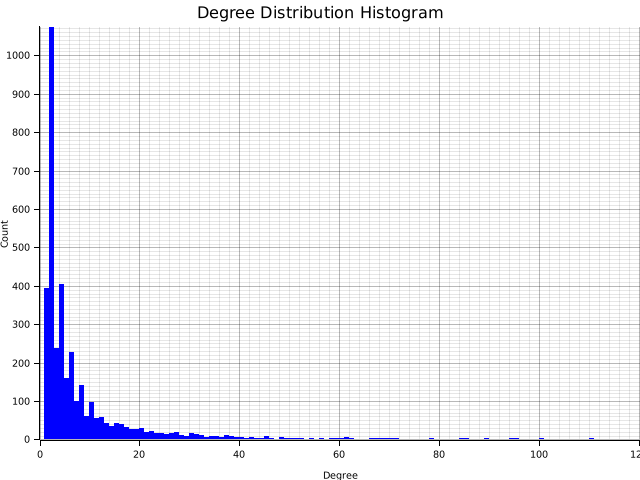
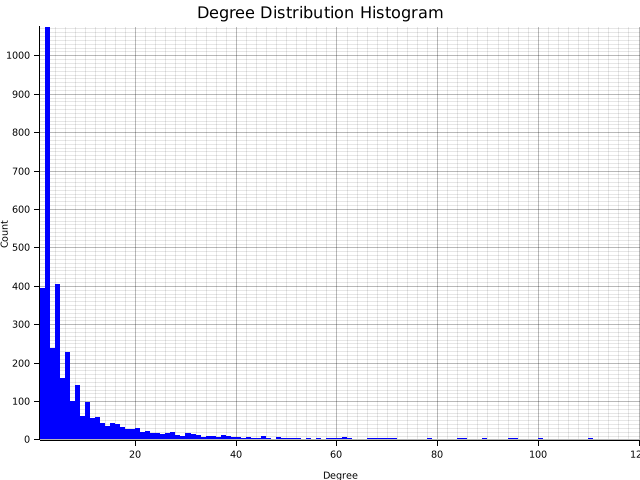
added a test code and made changes to the code

diff --git a/project/src/main.rs b/project/src/main.rs
@@ -4,16 +4,16 @@ mod analysis;
 
 use graph::Graph;
 use bfs::bfs;
-use analysis::{degree_distribution, plot_degree_distribution, trust_correlation};
+use analysis::{degree_distribution, plot_degree_distribution, trust_correlation_data, trust_correlation};
 use std::fs::File;
 use std::io::{self, BufRead};
 use rand::seq::SliceRandom;
+use std::collections::HashMap;
 
-// reads the CSV file and returns a vector of edges: source, target, weight
+// Reading the csv file and returns the vector of edges: source, target, weight
 fn read_file(file_path: &str) -> Vec<(i32, i32, i32)> {
     let file = File::open(file_path).expect("File not found");
     let reader = io::BufReader::new(file);
-
     let mut edges = Vec::new();
     for line in reader.lines() {
         let line = line.unwrap();
@@ -28,11 +28,10 @@ fn read_file(file_path: &str) -> Vec<(i32, i32, i32)> {
     edges
 }
 
-// calcluates the average shortest-path of the distance between random vertex pairs
+// Calculating the average shortest path of the distance between random vertex pairs
 fn average_distance(graph: &Graph, samples: usize) -> f64 {
     let mut rng = rand::thread_rng();
     let vertices: Vec<&i32> = graph.adjacency_list.keys().collect();
-
     if vertices.len() < 2 {
         return 0.0;
     }
@@ -50,7 +49,6 @@ fn average_distance(graph: &Graph, samples: usize) -> f64 {
             }
         }
     }
-
     if valid_pairs > 0 {
         total_distance as f64 / valid_pairs as f64
     } else {
@@ -63,15 +61,64 @@ fn main() {
     let edges = read_file(file_path);
     println!("Loaded {} edges", edges.len());
     let graph = Graph::new(&edges);
-
-    // computes the average distance between vertices
+    // Computing the average distance between vertices
     let avg_distance = average_distance(&graph, 10); // reduced sample size for simplicity
     println!("Average distance between two random vertices: {:.2}", avg_distance);
-
-    // computes the degree distribution
+    // Computing the degree distribution
     let distribution = degree_distribution(&graph);
     plot_degree_distribution(&distribution);
-
-    // computes the trust rating correlation
+    // Computing the trust rating correlation
     trust_correlation(&edges);
+}
+
+#[test]
+fn test_trust_correlation() {
+    // Creating a small set of edges:
+    // Vertex 1: connected to 3 others with trust values 10, 20, 30
+    // Vertex 2: connected to 2 others with trust values 40, 50
+    let edges = vec![
+        (1, 2, 10),
+        (1, 3, 20),
+        (1, 4, 30),
+        (2, 3, 40),
+        (2, 4, 50),
+    ];
+    // Calling the helper function to get the trust correlation data
+    let results = trust_correlation_data(&edges);
+    // Converting the results into a map for easier lookup
+    let mut vertex_map = HashMap::new();
+    for (vertex, degree, avg_trust) in results {
+        vertex_map.insert(vertex, (degree, avg_trust));
+    }
+    // What is expected:
+    // Vertex 1: Degree = 3, Average Trust = (10+20+30)/3 = 20.0
+    // Vertex 2: Degree = 2, Average Trust = (40+50)/2 = 45.0
+    let (d1, a1) = vertex_map.get(&1).expect("Vertex 1 not found");
+    assert_eq!(*d1, 3, "Expected Vertex 1 degree to be 3");
+    assert!((a1 - 20.0).abs() < f64::EPSILON, "Expected Vertex 1 avg trust to be 20.0, got {}", a1);
+    let (d2, a2) = vertex_map.get(&2).expect("Vertex 2 not found");
+    assert_eq!(*d2, 2, "Expected Vertex 2 degree to be 2");
+    assert!((a2 - 45.0).abs() < f64::EPSILON, "Expected Vertex 2 avg trust to be 45.0, got {}", a2);
+}
+
+#[test]
+fn second_test_trust_correlation() {
+    // Creating another set of edges:
+    // Vertex 10 is connected to 5 different vertices, while the verticies all have the same trust: 5
+    let edges = vec![
+        (10, 11, 5),
+        (10, 12, 5),
+        (10, 13, 5),
+        (10, 14, 5),
+        (10, 15, 5),
+    ];
+    // Vertex 10 should have degree = 5, and average trust = (5+5+5+5+5)/5 = 5.0
+    let results = trust_correlation_data(&edges);
+    let mut vertex_map = HashMap::new();
+    for (vertex, degree, avg_trust) in results {
+        vertex_map.insert(vertex, (degree, avg_trust));
+    }
+    let (d10, a10) = vertex_map.get(&10).expect("Vertex 10 not found");
+    assert_eq!(*d10, 5, "Expected Vertex 10 degree to be 5");
+    assert!((a10 - 5.0).abs() < f64::EPSILON, "Expected Vertex 10 avg trust to be 5.0, got {}", a10);
 }

diff --git a/project/src/analysis.rs b/project/src/analysis.rs
@@ -17,13 +17,15 @@ pub fn plot_degree_distribution(distribution: &HashMap<usize, usize>) {
     for (degree, count) in distribution {
         println!("Degree {}: {}", degree, count);
     }
-    let root_area = BitMapBackend::new("degree_distribution_histogram.png", (640, 480)).into_drawing_area();
+    let root_area = BitMapBackend::new("degree_distribution_histogram.png", (640, 480))
+        .into_drawing_area();
     root_area.fill(&WHITE).unwrap();
+    let max_count = distribution.values().max().unwrap_or(&0);
     let mut chart = ChartBuilder::on(&root_area)
         .caption("Degree Distribution Histogram", ("Arial", 20).into_font())
         .x_label_area_size(40)
         .y_label_area_size(40)
-        .build_cartesian_2d(0..120, 0..*distribution.values().max().unwrap_or(&0) + 1)
+        .build_cartesian_2d(1..120, 0..(*max_count as i32 + 1))
         .unwrap();
     chart.configure_mesh()
         .x_desc("Degree")
@@ -31,44 +33,64 @@ pub fn plot_degree_distribution(distribution: &HashMap<usize, usize>) {
         .draw()
         .unwrap();
     chart.draw_series(
-        distribution.iter().map(|(&degree, &count)| {
-            Rectangle::new(
-                [(degree as i32, 0), (degree as i32 + 1, count)],
-                BLUE.filled(),
-            )
+        distribution.iter().filter_map(|(&degree, &count)| {
+            if degree >= 1 && degree < 120 {
+                Some(Rectangle::new(
+                    [(degree as i32, 0), (degree as i32 + 1, count as i32)],
+                    BLUE.filled(),
+                ))
+            } else {
+                None
+            }
         })
     ).unwrap();
 }
 
-pub fn trust_correlation(edges: &[(i32, i32, i32)]) {
+pub fn trust_correlation_data(edges: &[(i32, i32, i32)]) -> Vec<(i32, usize, f64)> {
     let mut trust_to_neighbors = HashMap::new();
+    // Collecting trust ratings for each vertex based on source
     for &(source, _target, weight) in edges {
         trust_to_neighbors.entry(source).or_insert_with(Vec::new).push(weight);
     }
-    println!("Trust Rating vs Number of Connections:");
-    let mut points: Vec<(f64, f64)> = Vec::new();
+    // Computing degree and average trust
+    let mut results = Vec::new();
     for (vertex, trust_ratings) in trust_to_neighbors {
         let degree = trust_ratings.len();
         let avg_trust: f64 = trust_ratings.iter().map(|&x| x as f64).sum::<f64>() / degree as f64;
-        points.push((avg_trust, degree as f64));
+        results.push((vertex, degree, avg_trust));
+    }
+    results
+}
 
+pub fn trust_correlation(edges: &[(i32, i32, i32)]) {
+    let data = trust_correlation_data(edges);
+    // Setting points as (avg_trust, degree) to swap the axes for more neat looking graph
+    let points: Vec<_> = data.iter().map(|(_, degree, avg_trust)| (*avg_trust, *degree as f64)).collect();
+    println!("Trust Rating vs Number of Connections:");
+    for (vertex, degree, avg_trust) in &data {
         println!("Vertex {}: Degree = {}, Average Trust = {:.2}", vertex, degree, avg_trust);
     }
     let root_area = BitMapBackend::new("trust_vs_degree.png", (640, 480)).into_drawing_area();
     root_area.fill(&WHITE).unwrap();
+
+    let max_avg_trust = points.iter().map(|(x, _)| *x).fold(f64::NAN, f64::max);
+    let max_degree = points.iter().map(|(_, y)| *y).fold(f64::NAN, f64::max);
+
+    let max_avg_trust = if max_avg_trust.is_nan() { 0.0 } else { max_avg_trust };
+    let max_degree = if max_degree.is_nan() { 0.0 } else { max_degree };
+
     let mut chart = ChartBuilder::on(&root_area)
-        .caption("Average Trust vs Degree", ("Arial", 20).into_font())
+        .caption("Degree vs Average Trust", ("Arial", 20).into_font())
         .x_label_area_size(40)
         .y_label_area_size(40)
-        .build_cartesian_2d(0f64..points.iter().map(|(x, _)| *x).fold(0./0., f64::max) + 1.0, 0f64..points.iter().map(|(_, y)| *y).fold(0./0., f64::max) + 1.0)
+        // X-axis: avg_trust & Y-axis: degree
+        .build_cartesian_2d(0f64..(max_avg_trust + 1.0), 0f64..(max_degree + 1.0))
         .unwrap();
-
     chart.configure_mesh()
         .x_desc("Average Trust")
         .y_desc("Degree")
         .draw()
         .unwrap();
-
     chart.draw_series(
         points.iter().map(|(x, y)| Circle::new((*x, *y), 3, GREEN.filled()))
     ).unwrap();

diff --git a/project/src/bfs.rs b/project/src/bfs.rs
@@ -7,7 +7,6 @@ pub fn bfs(graph: &Graph, start: i32, end: i32) -> Option<usize> {
     let mut visited = HashMap::new();
     queue.push_back((start, 0));
     visited.insert(start, true);
-
     while let Some((node, distance)) = queue.pop_front() {
         if node == end {
             return Some(distance);
